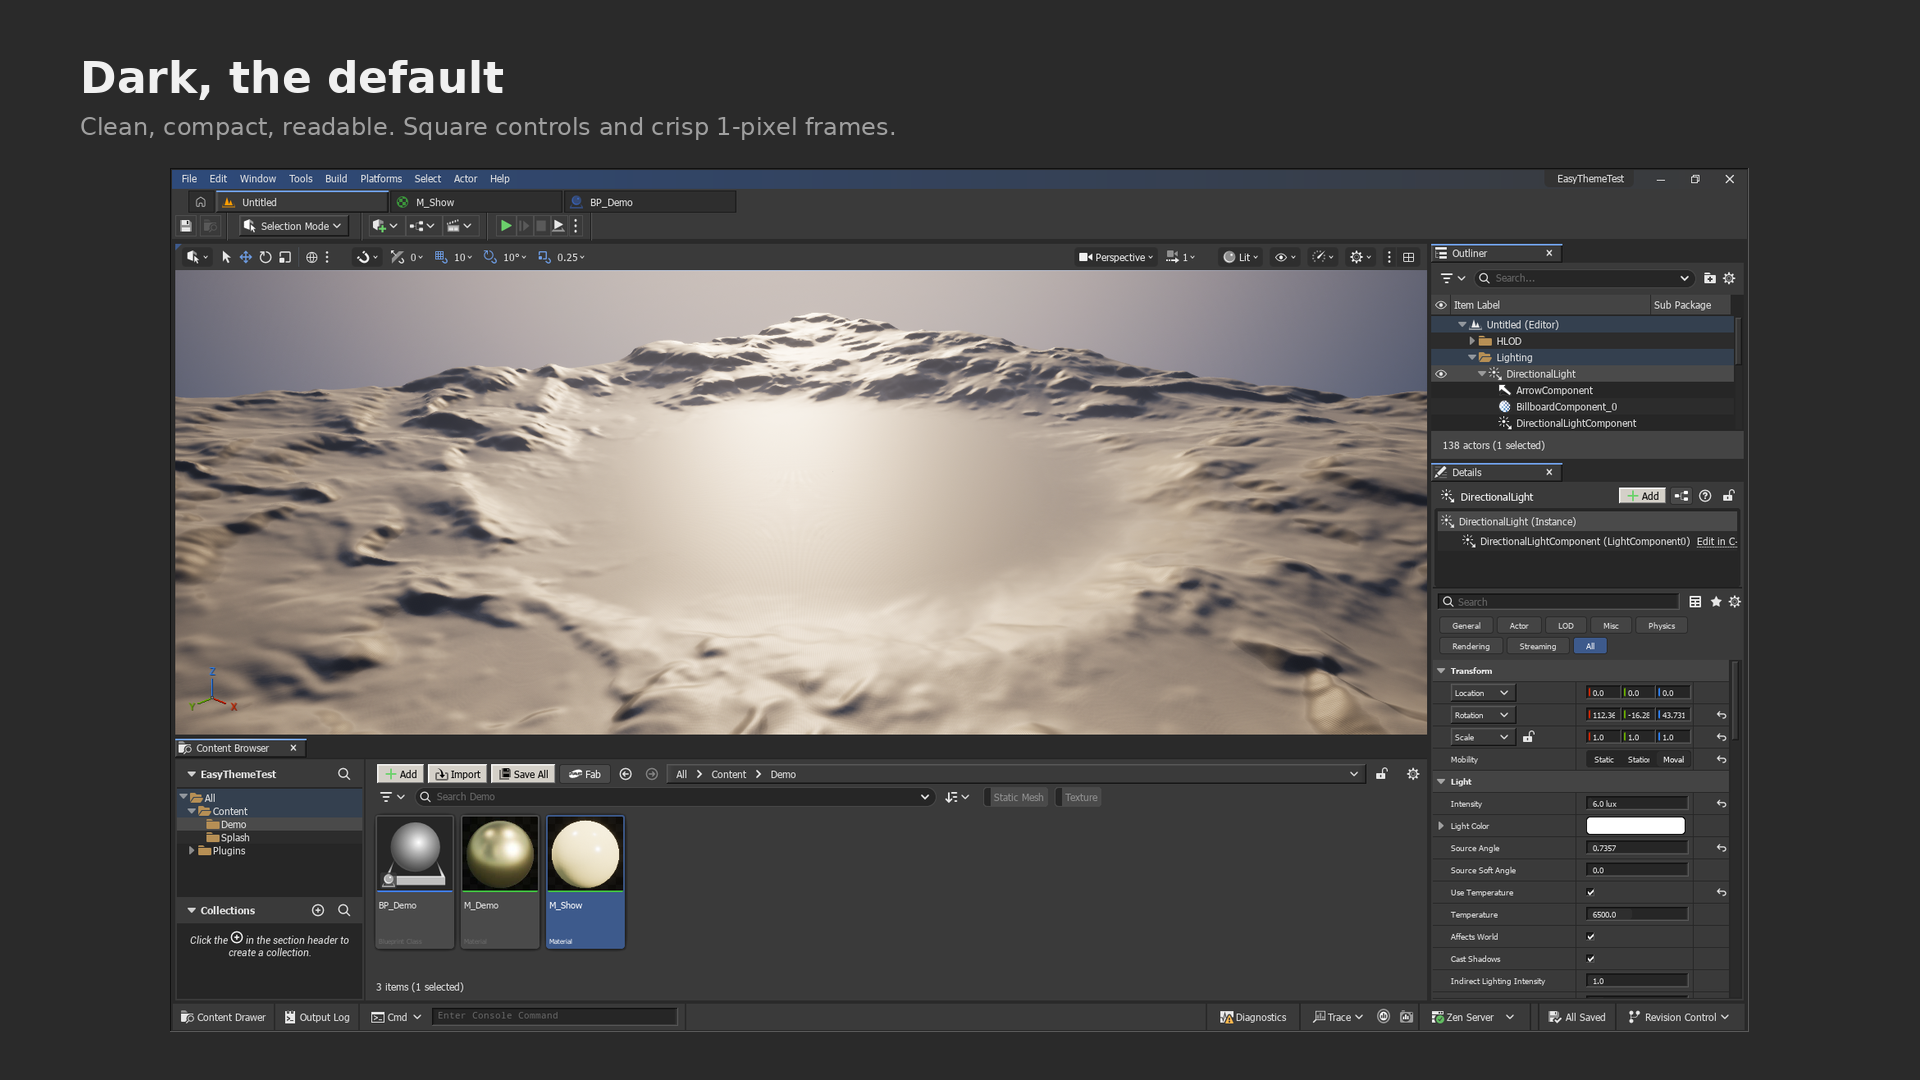
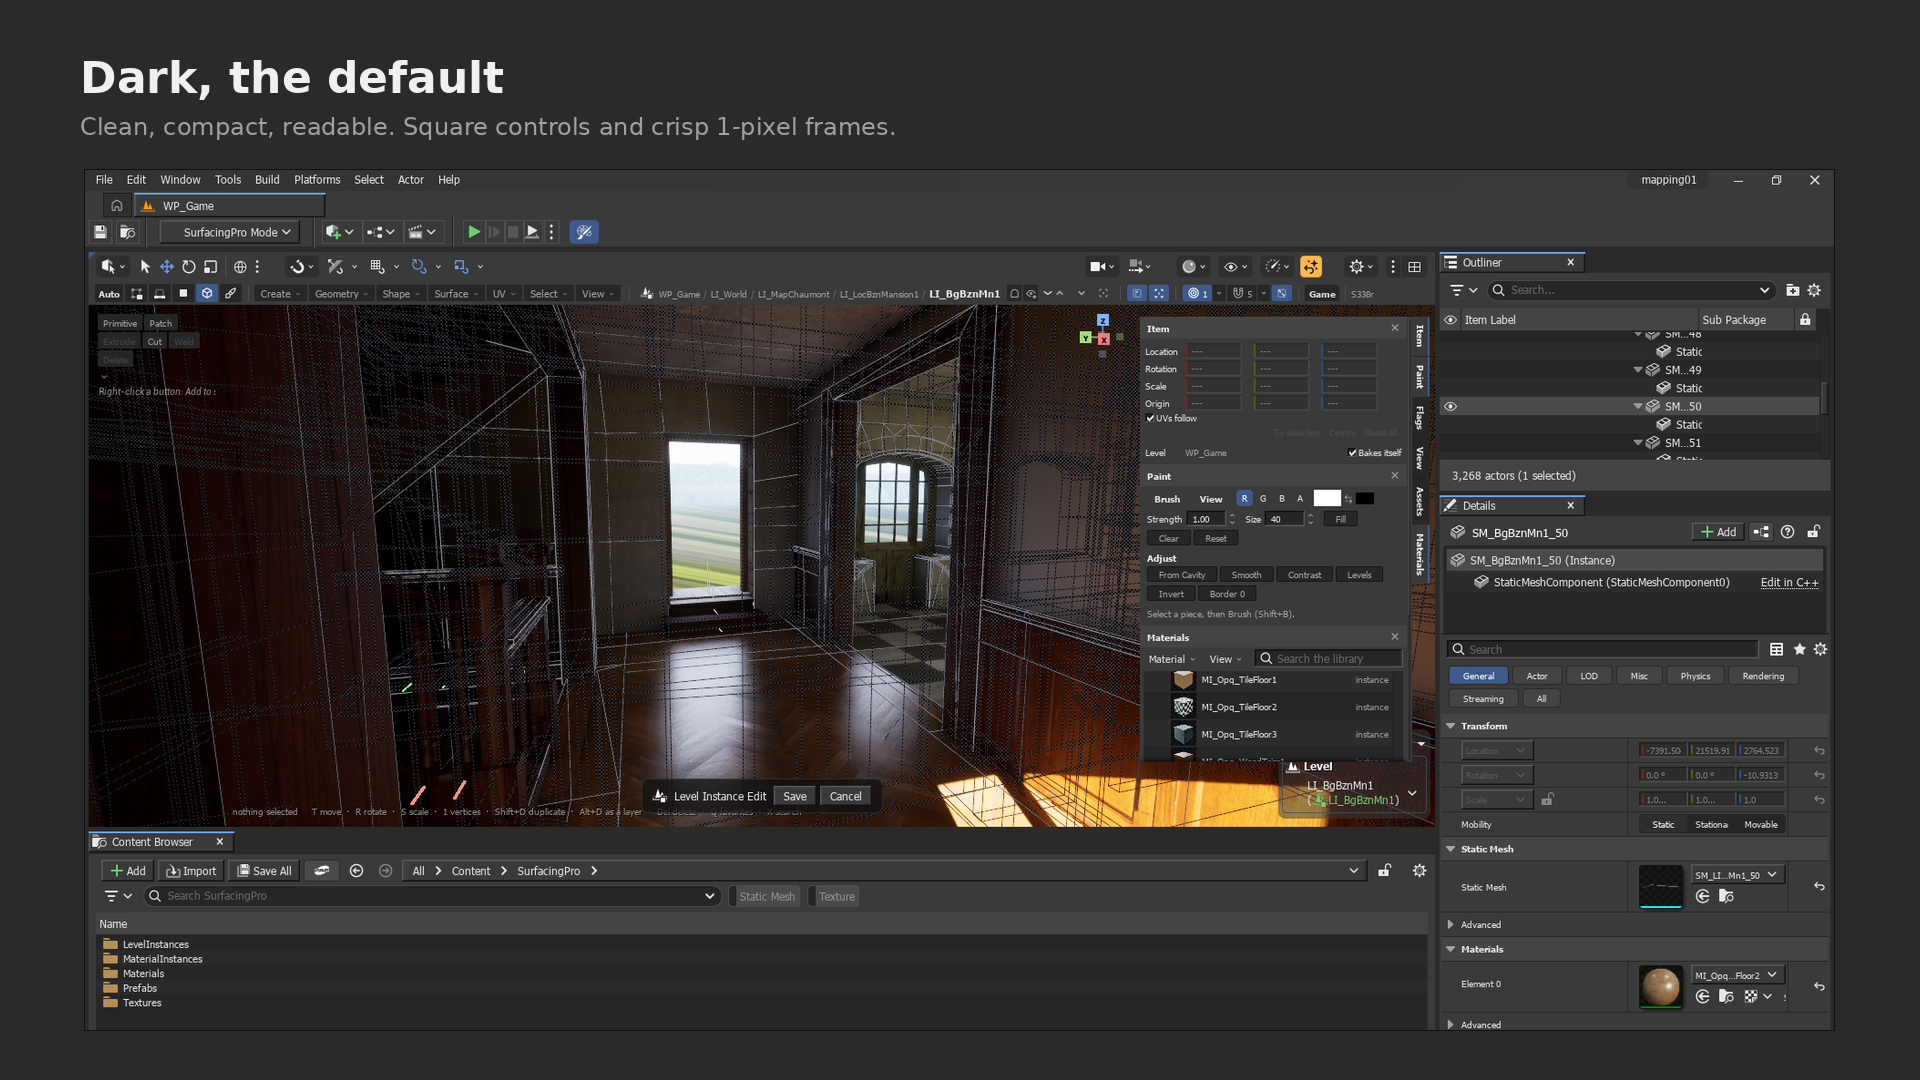
Main image: real project

diff --git a/docs/index.html b/docs/index.html
@@ -77,7 +77,7 @@
     <a class="btn" href="https://github.com/mapmodelers/ue5-theme-easy/issues">Support</a>
     <hr class="etch">
 
-    <img class="shot" src="media/hero.png" width="1920" height="888" alt="Easy Theme, Dark and Light side by side">
+    <img class="shot" src="media/hero.png" width="1920" height="944" alt="Unreal Editor with Easy Theme, Dark, on a real project">
 
     <img class="shot" src="media/dark.png" width="1920" height="1048" alt="Unreal Editor with Easy Theme, Dark">
     <p class="cap">Dark, the default. Square controls, crisp 1-pixel frames, compact toolbars.</p>

diff --git a/README.md b/README.md
@@ -4,7 +4,7 @@
 
 **Clean, compact, high-clarity editor theme. Dark by default, Light included.**
 
-![Easy Theme for Unreal Engine, Dark and Light](docs/media/social.png)
+![Easy Theme for Unreal Engine](docs/media/social.png)
 
 ![Easy Theme, Dark](docs/media/dark.png)
 
